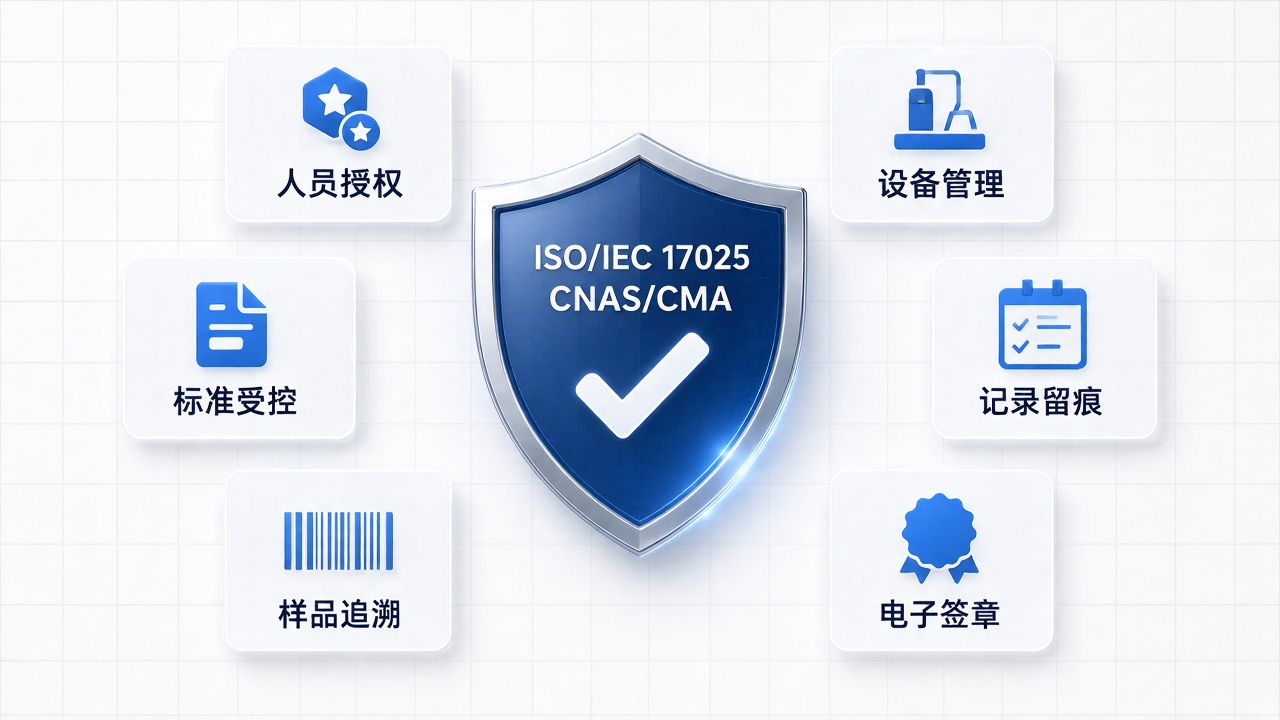
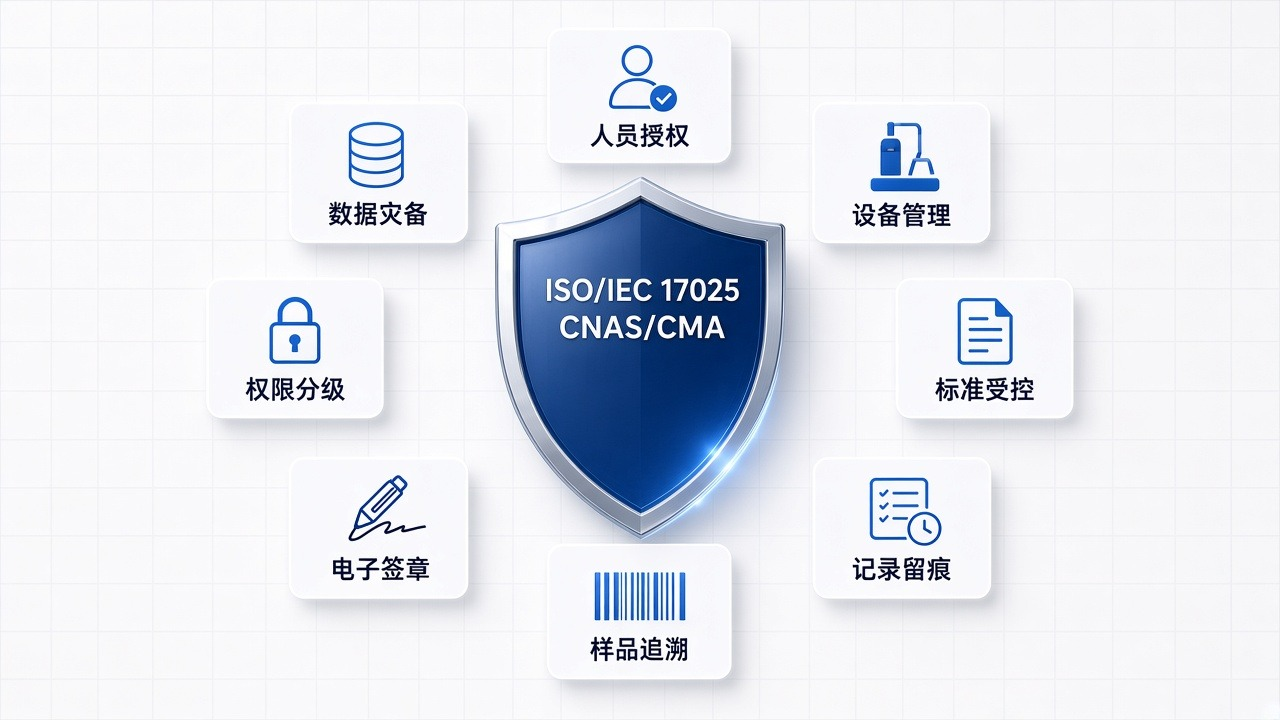
feat: 优势5配图改为八张能力卡片环绕盾牌

diff --git a/shucan-lims-brochure.html b/shucan-lims-brochure.html
@@ -417,7 +417,7 @@
             </ul>
           </div>
           <div class="visual">
-            <img class="illu" src="assets/brochure/18-cnas.jpg?v=shield" alt="盾牌写着 ISO/IEC 17025 与 CNAS/CMA，周围六张卡片：人员授权、设备管理、标准受控、记录留痕、样品追溯、电子签章" />
+            <img class="illu" src="assets/brochure/18-cnas.jpg?v=orbit" alt="盾牌写着 ISO/IEC 17025 与 CNAS/CMA，周围八张卡片：人员授权、设备管理、标准受控、记录留痕、样品追溯、电子签章、权限分级、数据灾备" />
           </div>
         </article>
         <article class="adv" id="adv-wall">
